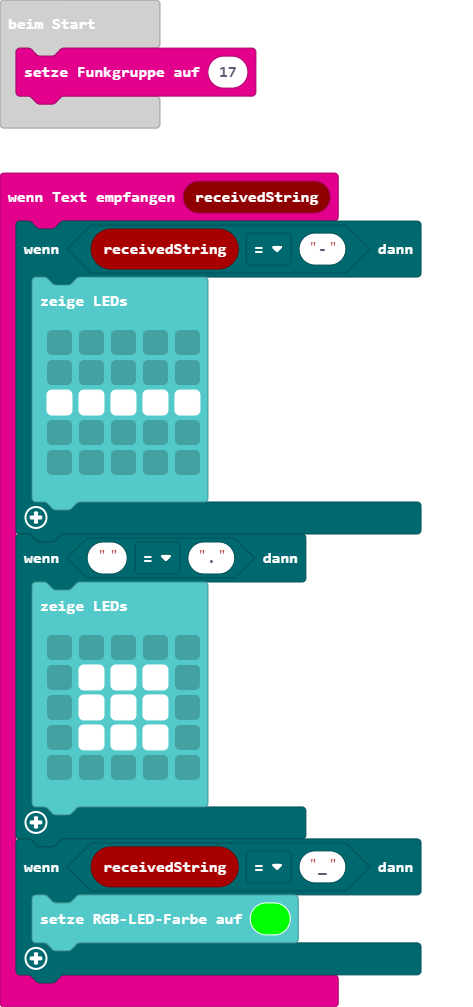
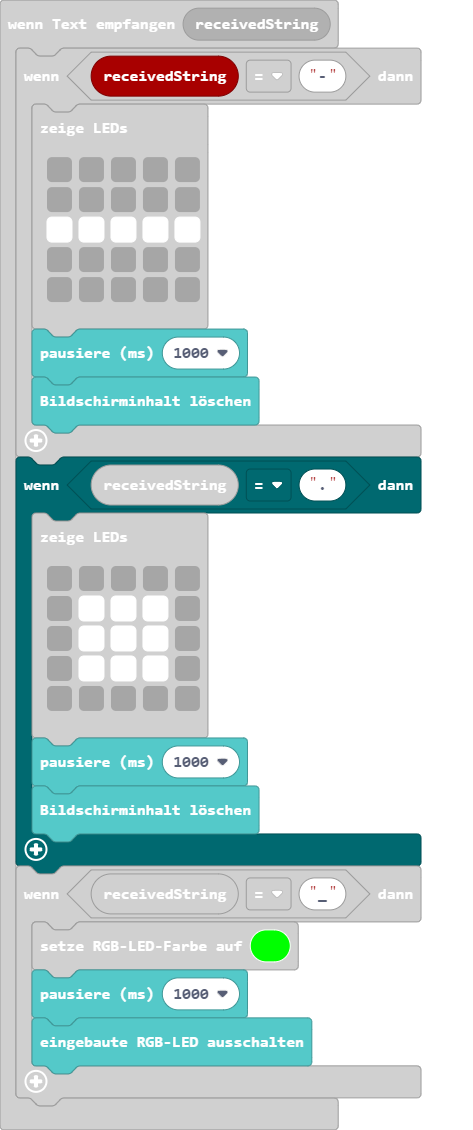
Aktualisiere main.blocks, main.ts

diff --git a/main.ts b/main.ts
@@ -34,8 +34,10 @@ radio.onReceivedString(function (receivedString) {
             . . . . .
             . . . . .
             `)
+        basic.pause(1000)
+        basic.clearScreen()
     }
-    if ("" == ".") {
+    if (receivedString == ".") {
         basic.showLeds(`
             . . . . .
             . # # # .
@@ -43,9 +45,13 @@ radio.onReceivedString(function (receivedString) {
             . # # # .
             . . . . .
             `)
+        basic.pause(1000)
+        basic.clearScreen()
     }
     if (receivedString == "_") {
         basic.setLedColor(0x00ff00)
+        basic.pause(1000)
+        basic.turnRgbLedOff()
     }
 })
 radio.setGroup(17)
